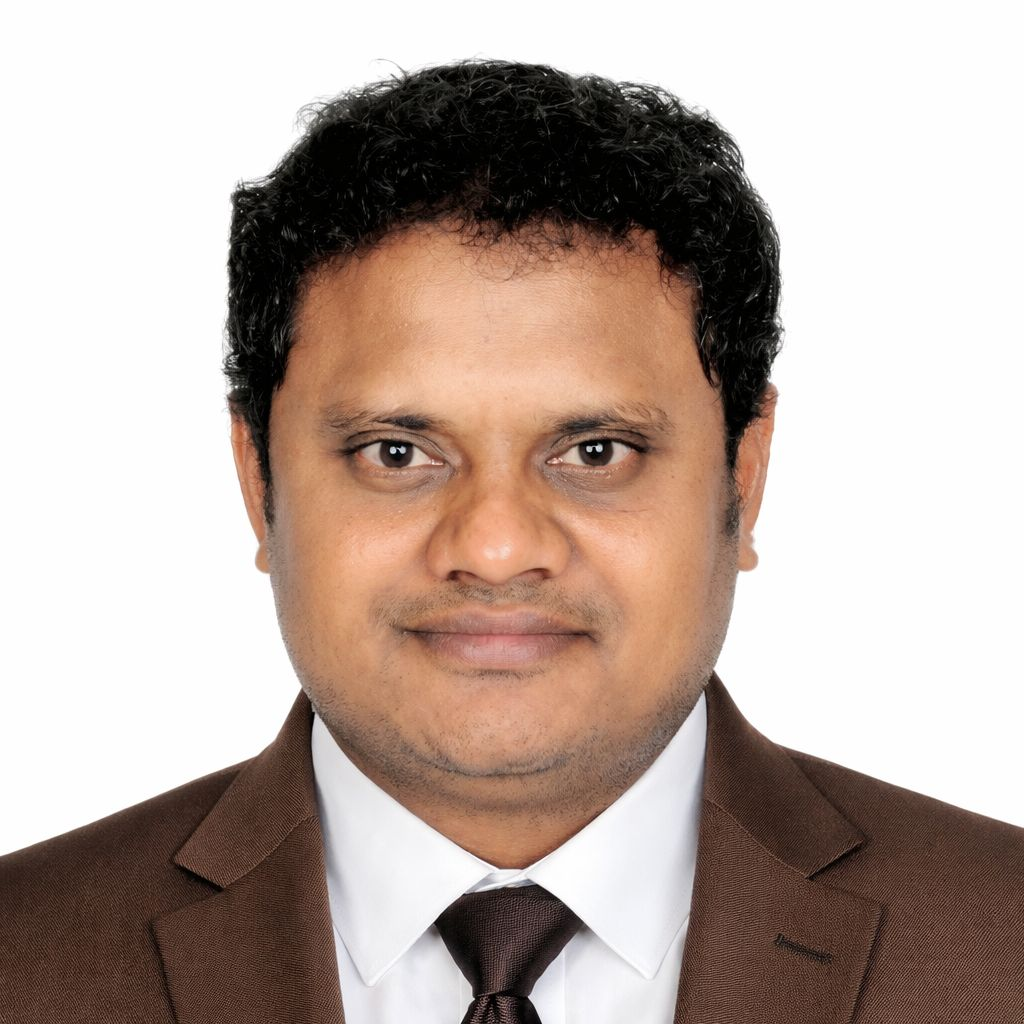
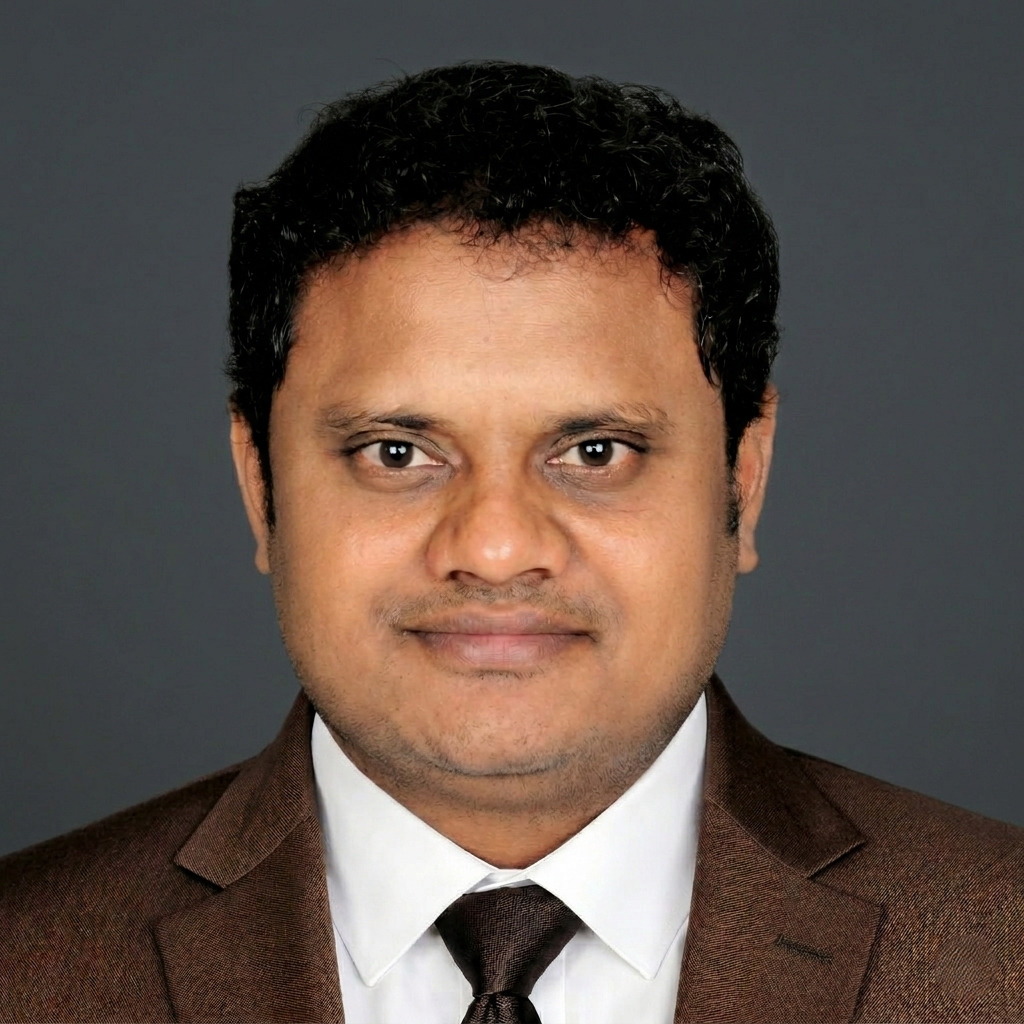
Added agreement page and added Dr sanjay shahs information and new barnch with required changes in branch head

diff --git a/app/page/agreement/page.tsx b/app/page/agreement/page.tsx
@@ -1,0 +1,91 @@
+"use client"
+import React, { useState, useEffect } from 'react';
+
+const ComingSoon = () => {
+    const [displayedText, setDisplayedText] = useState('');
+    const fullText = 'Something Great is Coming';
+    const [isTypingComplete, setIsTypingComplete] = useState(false);
+
+    useEffect(() => {
+        let index = 0;
+        const typingInterval = setInterval(() => {
+            if (index <= fullText.length) {
+                setDisplayedText(fullText.slice(0, index));
+                index++;
+            } else {
+                setIsTypingComplete(true);
+                clearInterval(typingInterval);
+            }
+        }, 80);
+        return () => clearInterval(typingInterval);
+    }, []);
+
+    return (
+        <section className="relative min-h-screen flex items-center justify-center overflow-hidden" 
+                 style={{ background: 'linear-gradient(to bottom right, #79c2f7ff, #ffffffff, #e5f8e5ff)' }}>
+
+            {/* Animated background shapes from your theme */}
+            <div className="absolute inset-0 overflow-hidden">
+                <div className="absolute -top-40 -right-40 w-80 h-80 rounded-full mix-blend-multiply filter blur-3xl opacity-30 animate-pulse" 
+                     style={{ backgroundColor: 'rgba(28, 202, 163, 0.3)' }}></div>
+                <div className="absolute -bottom-40 -left-40 w-80 h-80 rounded-full mix-blend-multiply filter blur-3xl opacity-30 animate-pulse" 
+                     style={{ backgroundColor: 'rgba(32, 118, 199, 0.3)', animationDelay: '1s' }}></div>
+                <div className="absolute top-1/2 left-1/2 transform -translate-x-1/2 -translate-y-1/2 w-96 h-96 rounded-full mix-blend-multiply filter blur-3xl opacity-20 animate-pulse" 
+                     style={{ backgroundColor: 'rgba(28, 202, 163, 0.2)', animationDelay: '2s' }}></div>
+            </div>
+
+            <div className="relative z-10 container mx-auto px-4 text-center">
+                {/* Brand Logo/Name */}
+                <div className={`mb-8 transition-opacity duration-1000 ${isTypingComplete ? 'opacity-100' : 'opacity-0'}`}>
+                    <span className="text-sm font-bold tracking-[0.3em] uppercase" style={{ color: '#1CADA3' }}>
+                        Infinity Arthvishva
+                    </span>
+                </div>
+
+                {/* Main heading with your theme's typing effect */}
+                <h1 className="text-5xl md:text-7xl lg:text-8xl font-bold mb-6 min-h-20 leading-tight" style={{
+                    background: 'linear-gradient(to right, #2076C7, #1CADA3, #2076C7)',
+                    WebkitBackgroundClip: 'text',
+                    WebkitTextFillColor: 'transparent',
+                    backgroundClip: 'text'
+                }}>
+                    {displayedText}
+                    <span className="inline-block w-1 h-12 md:h-20 ml-1" style={{
+                        background: 'linear-gradient(to bottom, #2076C7, #1CADA3)',
+                        animation: isTypingComplete ? 'pulse 2s cubic-bezier(0.4, 0, 0.6, 1) infinite' : 'blink 1s infinite'
+                    }}></span>
+                </h1>
+
+                {/* Subtitle */}
+                <p className={`text-lg md:text-xl text-gray-600 max-w-2xl mx-auto leading-relaxed transition-opacity duration-1000 delay-300 ${isTypingComplete ? 'opacity-100' : 'opacity-0'}`}>
+                    We are crafting a new digital experience to help you navigate your 
+                    <span className="font-semibold" style={{ color: '#2076C7' }}> financial journey </span> 
+                    with expert guidance. Stay tuned!
+                </p>
+
+                {/* Simple Accent Line */}
+                <div className={`mt-12 transition-all duration-1000 delay-500 transform ${isTypingComplete ? 'scale-x-100 opacity-100' : 'scale-x-0 opacity-0'}`}>
+                    <div className="h-1.5 w-24 mx-auto rounded-full" style={{ background: 'linear-gradient(to right, #1CADA3, #2076C7)' }}></div>
+                </div>
+            </div>
+
+            {/* Simple Footer */}
+            <footer className="absolute bottom-10 w-full text-center text-gray-400 text-xs font-medium uppercase tracking-widest">
+                &copy; {new Date().getFullYear()} Infinity Arthvishva. All Rights Reserved.
+            </footer>
+
+            <style jsx>{`
+                @keyframes blink {
+                    0%, 49% { opacity: 1; }
+                    50%, 100% { opacity: 0; }
+                }
+                @keyframes pulse {
+                    0%, 100% { opacity: 1; }
+                    50% { opacity: 0.3; }
+                }
+            `}</style>
+        </section>
+    );
+};
+
+export default ComingSoon;

diff --git a/app/page/about/page.tsx b/app/page/about/page.tsx
@@ -1,3 +1,5 @@
+import { title } from "process";
+
 const AboutSection = () => {
     const leaders = [
         {
@@ -16,7 +18,13 @@ const AboutSection = () => {
             name: "Mr. K Krishna",
             title: "Regional Director, Hyderabad ",
             description: "K Krishna brings 18+ years of banking experience, driving strategic growth, operational excellence, and revenue expansion through high-performing teams and strong client-focused strategies.",
-            image: "/leader/K-Krishna.jpeg"
+            image: "/leader/K-krishna.jpeg"
+        },
+        {
+            name: "Dr. Sanjay Shaha",
+            title: "MD | Director – Infinity Arthvishva",
+            description: "Dr. Sanjay Shaha, Director at Infinity Arthvishva, is a senior physician with 40+ years of experience. National Merit Winner, Gold Medalist & Vijay Ratna Awardee, bringing strategic vision and ethical leadership.",
+            image: "/leader/sanjay-shaha.jpeg"
         },
         {
             name: "Mr. Pravin Marathe",
@@ -39,13 +47,13 @@ const AboutSection = () => {
         {
             name: "Mr. Sharad Kulkarni",
             title: "Regional Business Head (Sangli Branch)",
-            description: "Mr. Satyen Mehta brings 25+ years of banking experience in Home Loans, LAP, Insurance, and Real Estate, leading overall strategy, revenue growth, operational excellence, and sustainable business expansion.",
+            description: "Mr. Sharad Kulkarni, Regional Business Head – Sangli, brings over 9 years of lending and 5 years of insurance experience, driving regional growth, high-performing teams, and strong client-focused business expansion.",
             image: "/leader/Sharad-Kulkarni.jpeg"
         },
         {
             name: "Mr. Anant Chachad",
             title: "Regional Business Head – Kolhapur",
-            description: "Mr. Sharad Kulkarni, Regional Business Head – Sangli, brings over 9 years of lending and 5 years of insurance experience, driving regional growth, high-performing teams, and strong client-focused business expansion.",
+            description: "Mr. Anant Madhusudan Chachad, Regional Business Head – Kolhapur, brings over 14 years of experience in financial services, leading Mortgage Loans for the West region with expertise in Home Loans, LAP, distribution network development, and strategic portfolio growth.",
             image: "/leader/Anant-Chachad.jpeg"
         },
         {
@@ -101,8 +109,9 @@ const AboutSection = () => {
                             </div>
 
                             {/* Row 1: 3 Leaders */}
-                            <div className="grid grid-cols-1 md:grid-cols-3 gap-8 max-w-6xl mx-auto mb-12">
-                                {leaders.slice(0, 3).map((leader, index) => (
+                            {/* Row 1: 4 Leaders - Rajesh, Rahul, Krishna, Sanjay */}
+                            <div className="grid grid-cols-1 md:grid-cols-4 gap-6 max-w-6xl mx-auto mb-12">
+                                {leaders.slice(0, 4).map((leader, index) => (
                                     <div
                                         key={index}
                                         className="group bg-white rounded-2xl shadow-md overflow-hidden transition-all duration-300 hover:shadow-2xl hover:-translate-y-2">
@@ -124,7 +133,7 @@ const AboutSection = () => {
 
                             {/* Row 2: 3 Leaders */}
                             <div className="grid grid-cols-1 md:grid-cols-3 gap-8 max-w-6xl mx-auto mb-16">
-                                {leaders.slice(3, 6).map((leader, index) => (
+                                {leaders.slice(4, 7).map((leader, index) => (
                                     <div
                                         key={index + 3}
                                         className="group bg-white rounded-2xl shadow-md overflow-hidden transition-all duration-300 hover:shadow-2xl hover:-translate-y-2">
@@ -154,7 +163,7 @@ const AboutSection = () => {
 
                             {/* Row 3: Remaining 5 Leaders */}
                             <div className="grid grid-cols-1 md:grid-cols-2 lg:grid-cols-5 gap-6 max-w-[95rem] mx-auto">
-                                {leaders.slice(6).map((leader, index) => (
+                                {leaders.slice(7).map((leader, index) => (
                                     <div
                                         key={index + 6}
                                         className="group bg-white rounded-2xl shadow-md overflow-hidden transition-all duration-300 hover:shadow-2xl hover:-translate-y-2">
@@ -255,6 +264,7 @@ const AboutSection = () => {
                         </p>
                     </div>
 
+                    {/* All branches in grid - MODIFIED: removed Moshi and Hyderabad from here */}
                     <div className="grid md:grid-cols-2 lg:grid-cols-4 gap-6">
                         {/* Kanpur Branch */}
                         <div className="bg-linear-to-r from-[#2076C7] to-[#1CADA3] p-0.5 rounded-xl shadow-sm hover:shadow-md transition-all duration-300">
@@ -333,7 +343,6 @@ const AboutSection = () => {
                             </div>
                         </div>
 
-
                         {/* Ratnagiri Branch */}
                         <div className="bg-linear-to-r from-[#2076C7] to-[#1CADA3] p-0.5 rounded-xl shadow-sm hover:shadow-md transition-all duration-300">
                             <div className="bg-white rounded-xl p-5 h-full">
@@ -346,6 +355,7 @@ const AboutSection = () => {
                                 </div>
                             </div>
                         </div>
+
                         {/* Sangli Branch */}
                         <div className="bg-linear-to-r from-[#2076C7] to-[#1CADA3] p-0.5 rounded-xl shadow-sm hover:shadow-md transition-all duration-300">
                             <div className="bg-white rounded-xl p-5 h-full">
@@ -358,15 +368,32 @@ const AboutSection = () => {
                                 </div>
                             </div>
                         </div>
+                    </div>
+
+                    {/* NEW - Centered container for Moshi and Hyderabad branches */}
+                    <div className="flex justify-center gap-6 mt-6">
                         {/* Moshi Branch */}
-                        <div className="bg-linear-to-r from-[#2076C7] to-[#1CADA3] p-0.5 rounded-xl shadow-sm hover:shadow-md transition-all duration-300">
+                        <div className="w-full md:w-[calc(50%-12px)] lg:w-[calc(25%-18px)] bg-linear-to-r from-[#2076C7] to-[#1CADA3] p-0.5 rounded-xl shadow-sm hover:shadow-md transition-all duration-300">
                             <div className="bg-white rounded-xl p-5 h-full">
                                 <h3 className="text-lg font-semibold text-gray-800 mb-3">Moshi Branch</h3>
                                 <div className="text-gray-600 text-sm leading-relaxed space-y-2">
-                                    <p className="font-medium text-gray-700">1st Floor, Office No 104 </p>
+                                    <p className="font-medium text-gray-700">1st Floor, Office No 104</p>
                                     <p>Destination Ostiya</p>
-                                    <p>F Building , Alandi Moshi Road</p>
-                                    <p>Pune, Maharashtra - 412105 </p>
+                                    <p>F Building, Alandi Moshi Road</p>
+                                    <p>Pune, Maharashtra - 412105</p>
+                                </div>
+                            </div>
+                        </div>
+
+                        {/* Hyderabad Branch */}
+                        <div className="w-full md:w-[calc(50%-12px)] lg:w-[calc(25%-18px)] bg-linear-to-r from-[#2076C7] to-[#1CADA3] p-0.5 rounded-xl shadow-sm hover:shadow-md transition-all duration-300">
+                            <div className="bg-white rounded-xl p-5 h-full">
+                                <h3 className="text-lg font-semibold text-gray-800 mb-3">Hyderabad Branch</h3>
+                                <div className="text-gray-600 text-sm leading-relaxed space-y-2">
+                                    <p className="font-medium text-gray-700">Office No: 5B, 5th Floor</p>
+                                    <p>Vishwa Heritage Arcade</p>
+                                    <p>Near ESI Metro Station, Pillar No. 1010, SR Nagar,</p>
+                                    <p>Hyderabad, Telangana - 500038</p>
                                 </div>
                             </div>
                         </div>